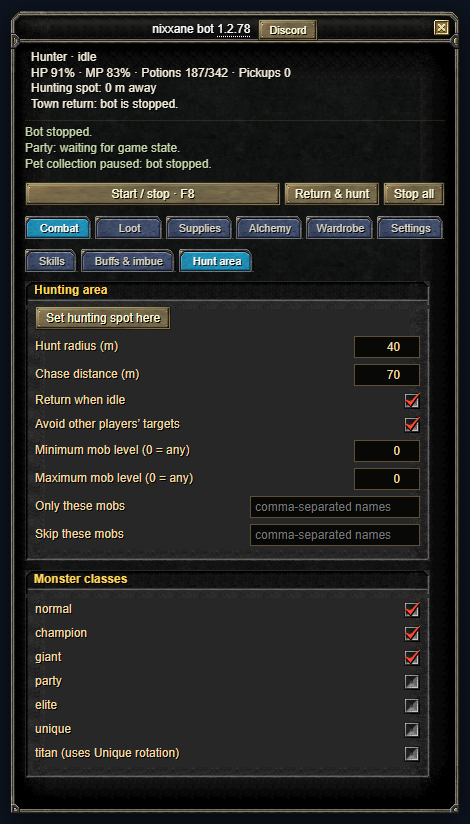
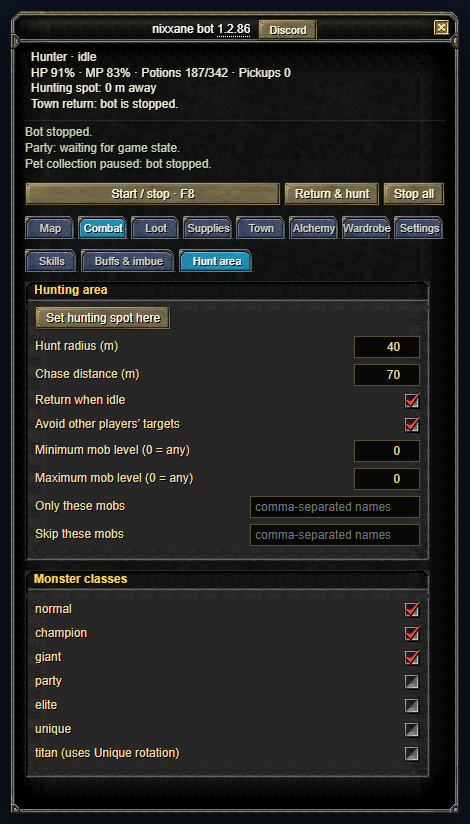
1.2.86 patch notes, Town page in the guide, new screenshots

Changed region(s): [[0.0596, 0.2427, 0.4766, 0.3034], [0.5362, 0.2427, 0.9532, 0.3034], [0.5064, 0.0303, 0.5362, 0.0607]]

diff --git a/guide.html b/guide.html
@@ -63,7 +63,7 @@
       <li>Stop the bot while you save points.</li>
     </ul>
     <h3>Set the town points automatically</h3>
-    <p>Open <strong>Supplies → Scroll town cycle</strong>. Use a return scroll, don't move, and click <strong>Auto-set town services</strong>. The bot recognises the town and fills the arrival point, warehouse, potion merchant, repair merchant and world statue. It only fills what is empty. <strong>Redo all automatically</strong> replaces everything.</p>
+    <p>Open the <strong>Town</strong> page and scroll to <strong>Scroll town cycle</strong>. Use a return scroll, don't move, and click <strong>Auto-set town services</strong>. The bot recognises the town and fills the arrival point, warehouse, potion merchant, repair merchant and world statue. It only fills what is empty. <strong>Redo all automatically</strong> replaces everything.</p>
     <p class="note">Press it where the return scroll puts you if you can. If the saved arrival point is not where the scroll lands, the bot corrects it by itself after the first recall: once your character stands still in the town for three seconds, that spot becomes the arrival point.</p>
     <h3>Or save the points by hand</h3>
     <ol>
@@ -71,13 +71,16 @@
       <li>Walk to the warehouse, stand a few steps in front of the NPC on open ground, <strong>select the NPC in the game</strong>, then click <strong>Save warehouse</strong>. Do the same for the <strong>repair merchant</strong> and the <strong>world statue / teleport</strong>.</li>
       <li>For the <strong>potion merchant</strong>, open its shop first, then click <strong>Save potion merchant</strong>.</li>
     </ol>
-    <img class="shot" src="guide/08-town-cycle.png" width="470" alt="Supplies, Scroll town cycle: the town switches, the Auto-set town services button and the five Save buttons, each showing Not saved.">
+    <img class="shot" src="guide/08-town-cycle.png" width="470" alt="Town page, Scroll town cycle: the town switches, the Auto-set town services button and the five Save buttons, each showing Not saved.">
     <p class="note">With manual saves the bot walks to the exact spot you stood on. If a merchant is too far from that spot, the trip stalls on the way there. Standing a few steps in front of the NPC, on open ground, avoids it.</p>
     <h3>Choose what to buy</h3>
     <p>In <strong>Potion restock</strong> tick <strong>Buy HP</strong> and <strong>Buy MP</strong> and set <strong>Low stock</strong> (a trip starts at or below it) and <strong>refill to</strong> (the total you want after shopping, counting what you carry). Town trips buy X-Large HP and MP potions. You can also buy vigor potions in the size you choose, and abnormal pills. Archers can tick <strong>Buy arrows</strong> or <strong>Buy bolts</strong> under <strong>Supplies → Arrows and bolts</strong>: they are bought at the repair merchant on the same trip, and equipping them is up to you.</p>
     <img class="shot" src="guide/07-restock.png" width="470" alt="Supplies, Potion restock: Buy HP and Buy MP with low-stock and refill amounts, the vigor potion size, and abnormal pills.">
     <h3>Turn it on</h3>
-    <p>Tick <strong>Use return scroll → town services → reverse return</strong>, save your hunting spot, and start the bot. Other options in that section: return when the pickup pet is nearly full, revive in town and reverse back after dying, and deposit gear in the warehouse (see below). F8 cancels a trip at any time.</p>
+    <p>Tick <strong>Use return scroll → town services → reverse return</strong>, save your hunting spot, and start the bot. The same section lets you deposit gear in the warehouse (see below); returning when the pickup pet is nearly full and reviving in town after dying are under <strong>Go to town when…</strong>. F8 cancels a trip at any time.</p>
+    <h3>What starts a trip</h3>
+    <p>The top of the <strong>Town</strong> page shows the trip as pictures: return scroll, warehouse, potions, repair and reverse, with what each step still needs. Under <strong>Go to town when…</strong> are the reasons a trip starts. A nearly full bag and low potions always count. You can also send the bot to town when the pickup pet is nearly full, when your <strong>weapon is broken</strong> (on by default), when your <strong>gear is worn</strong> below a percentage, after <strong>no XP for a while</strong>, or <strong>on a timer</strong>. The XP and timer clocks only run while hunting and restart with every trip.</p>
+    <img class="shot" src="guide/08-town-triggers.png" width="470" alt="Town page: the trip as five pictures, then Go to town when… with the pet, broken weapon, worn gear, no XP and timer switches.">
 
     <h2 id="pet">4. Pet loot</h2>
     <ol>

diff --git a/index.html b/index.html
@@ -26,6 +26,17 @@
       <h2 id="patch-notes-title">Patch notes</h2>
       <p class="notes-intro">Install the latest script, then reload the game. Reporting-service fixes apply automatically.</p>
       <article class="release">
+        <h3><a href="https://github.com/nixxane/opensro-bot-lean/commit/352001f">1.2.86</a> · Town page and new reasons to go to town</h3>
+        <ul>
+          <li>New Town page. It shows the trip as a row of pictures (return scroll, warehouse, potions, repair, reverse) with what each step still needs, and everything that starts a trip in one place. The scroll town cycle settings and Arrows and bolts moved here from Supplies.</li>
+          <li>Weapon is broken: a trip starts when your equipped weapon is at 0 durability, so it gets repaired instead of hitting with bare hands. On by default.</li>
+          <li>Gear is worn: a trip starts when the most worn piece you are wearing drops below a percentage of its own maximum durability (15% by default). Off by default.</li>
+          <li>No XP for a while: a trip starts after a number of minutes without experience (10 by default). Off by default.</li>
+          <li>On a timer: a trip every so many minutes (60 by default). Off by default.</li>
+        </ul>
+        <p class="release-note">All of them need the town cycle on. The XP and timer clocks run only while hunting and restart with every trip.</p>
+      </article>
+      <article class="release">
         <h3><a href="https://github.com/nixxane/opensro-bot-lean/commit/a68e8ba">1.2.85</a> · The map shows the ground again</h3>
         <ul>
           <li>The Map page showed only a black background in the game. The game now publishes its minimap tiles in a new compressed format inside a new kind of asset pack, which the bot could not read. It reads both now, so the minimap appears under the markers.</li>
